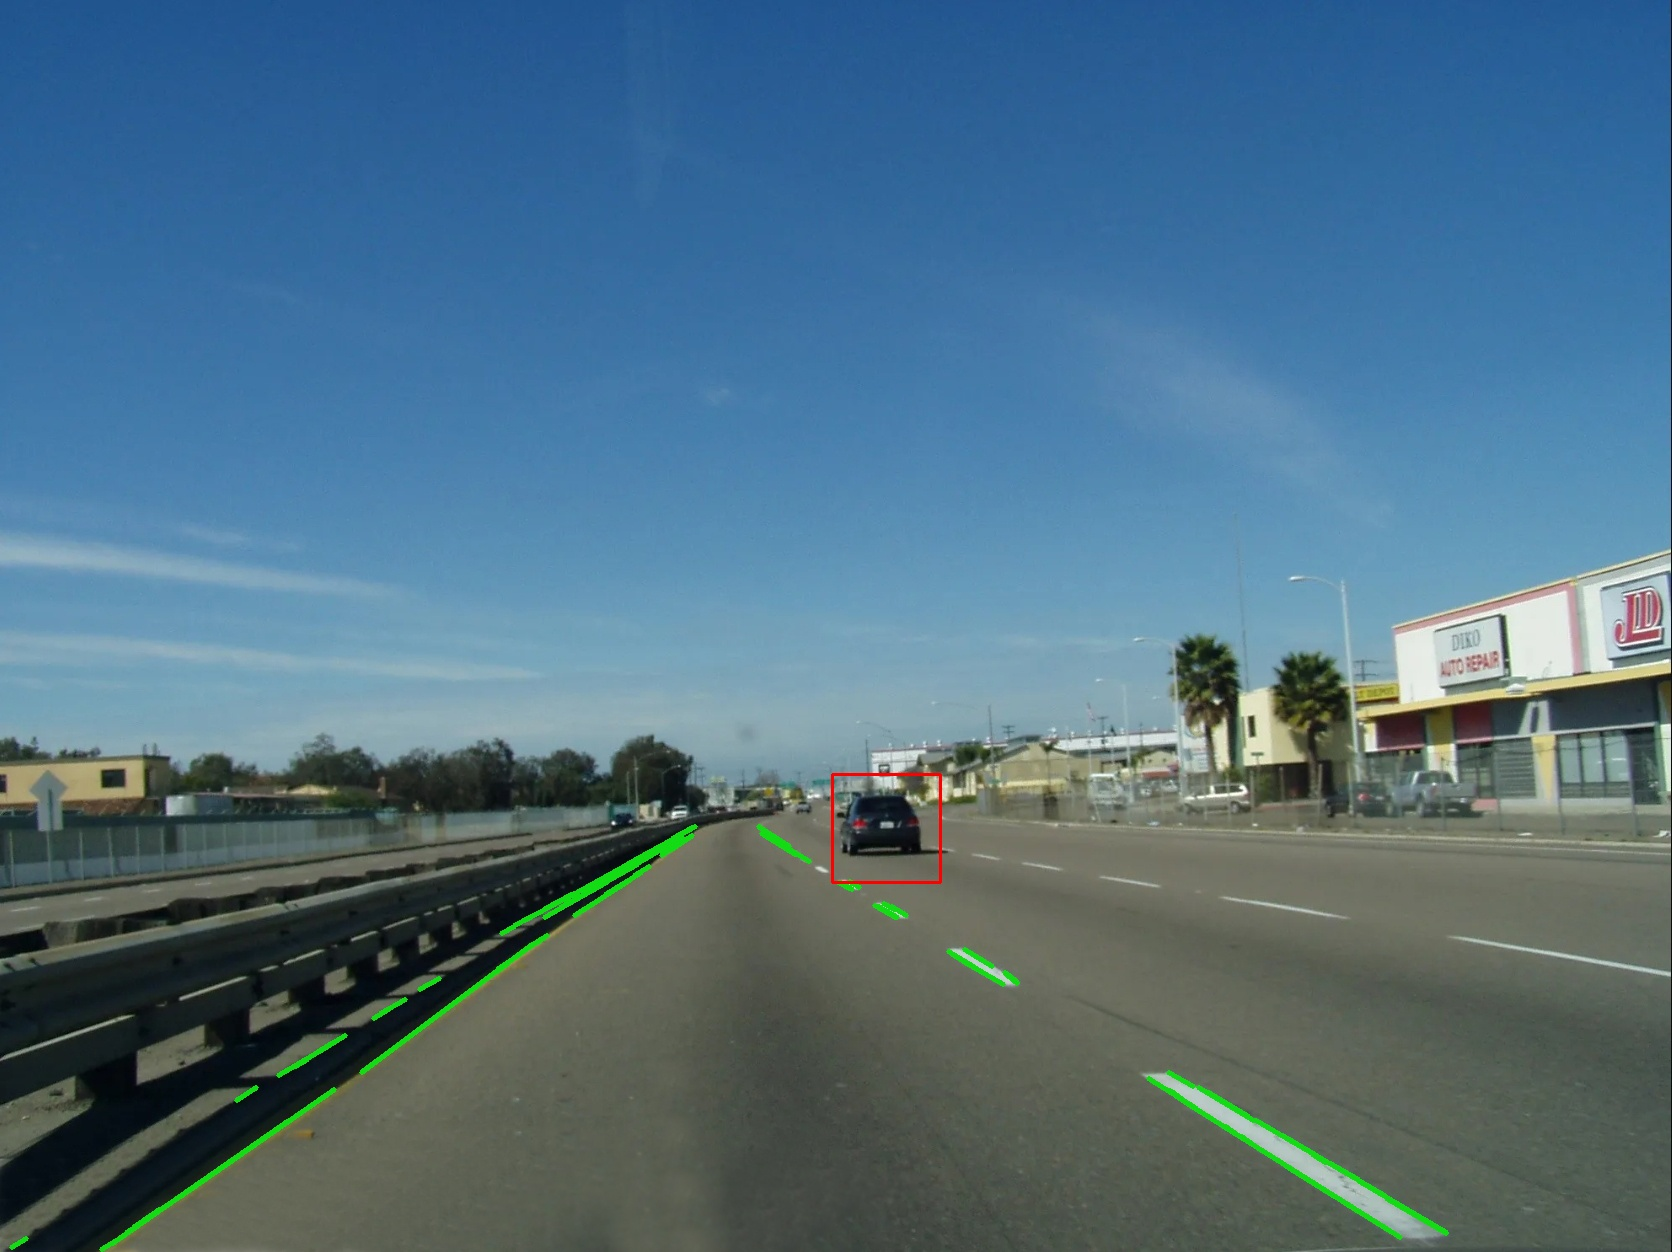
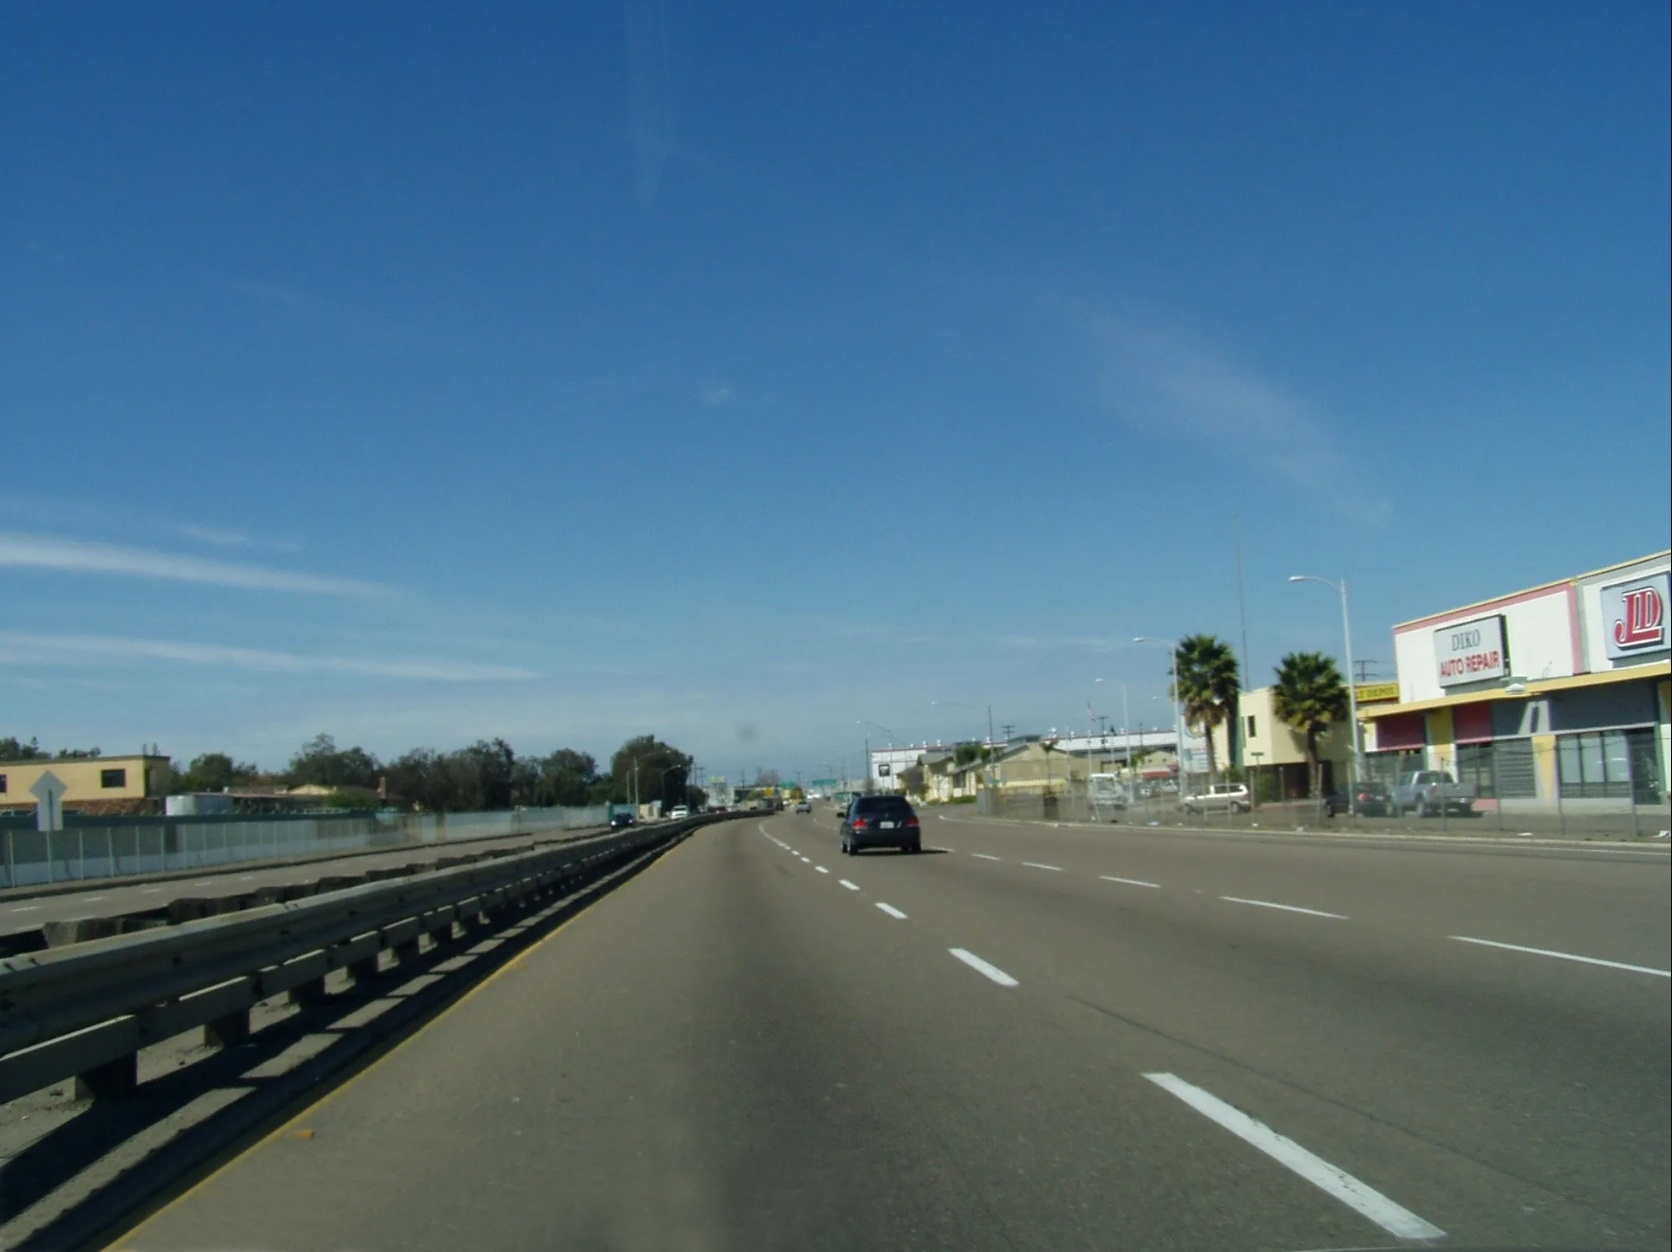
Add files via upload
Added video support

diff --git a/videosupport.py b/videosupport.py
@@ -1,0 +1,91 @@
+import cv2
+import numpy as np
+
+
+#image filtering parameters
+guassian_window = 5
+max_slope = 0.50
+edge_low = 50
+edge_high = 150
+mask_height = 2.0
+
+#line detection parameters
+line_detection_rho = 10
+line_detection_theta = np.pi/180
+line_detection_threshold = 200
+line_detection_minLine = 25
+line_detection_maxGap = 5
+
+#car detection parameters
+car_minsize = 80
+
+# Load the video
+video = cv2.VideoCapture('video.mp4')
+fps = video.get(cv2.CAP_PROP_FPS)
+frame_width = int(video.get(cv2.CAP_PROP_FRAME_WIDTH))
+frame_height = int(video.get(cv2.CAP_PROP_FRAME_HEIGHT))
+
+out = cv2.VideoWriter('output.mp4', cv2.VideoWriter_fourcc(*'mp4v'), fps, (frame_width, frame_height), isColor=True)
+video.set(cv2.CAP_PROP_POS_MSEC, 60000)
+
+
+# Frame index
+frame_index = 0
+counter = 0
+while True:
+    print("Frame: ", counter)
+    # Read the video frame by frame
+    ret, frame = video.read()
+
+    if not ret:
+        break
+
+    roadImage_grayscale = cv2.cvtColor(frame, cv2.COLOR_BGR2GRAY)  # transform to GC
+    roadImage_blur = cv2.GaussianBlur(roadImage_grayscale, (guassian_window, guassian_window), 0)  # 5-pixel window blur to GC_blur
+    roadImage_edges = cv2.Canny(roadImage_blur, edge_low, edge_high)  # use Canny to get edges
+
+    height, width = frame.shape[:2]
+
+    offset = width/12
+    top_left = (width / 2 - offset, height / mask_height)
+    top_right = (width / 2 + offset, height / mask_height)
+    mid_left = (width/8, height - width/8)
+    mid_right = (width - width/8, height - width/8)
+    bottom_left = (width/8, height)
+    bottom_right = (width - width/8, height)
+    vertices = np.array([[bottom_left, mid_left, top_left, top_right, mid_right, bottom_right]], dtype=np.int32)
+
+    mask = np.zeros_like(roadImage_edges)
+    cv2.fillPoly(mask, vertices, 255)
+    roadImage_edges_masked = cv2.bitwise_and(roadImage_edges, mask)  # get masked version of image
+
+    #   LINE DETECTION ----------------
+    lines = cv2.HoughLinesP(roadImage_edges_masked, line_detection_rho, line_detection_theta, line_detection_threshold, None, line_detection_minLine, line_detection_maxGap)  # detect lines
+
+    try:
+        for line in lines:
+            for x1, y1, x2, y2 in line:
+                if abs((y2 - y1) / (x2 - x1)) > max_slope:  # remove line if slope is near horizontal
+                    cv2.line(frame, (x1, y1), (x2, y2), (20, 220, 20), 3)  # draw line on original image
+    except:
+        f = None
+
+    #   CAR DETECTION ----------------
+    car_cascade = cv2.CascadeClassifier('cars.xml')  # import 'car' data
+    # find things that look like cars
+    cars = car_cascade.detectMultiScale(frame, scaleFactor=1.1, minNeighbors=5,
+                                        minSize=(car_minsize, car_minsize))
+    for x, y, width, height in cars:
+        cv2.rectangle(frame, (x + 10, y + 10), (x + width - 10, y + height - 10), (0, 0, 255),
+                      2)  # draw rectangle around 'car'
+
+    out.write(frame)
+    counter = counter+1
+
+# Release the video object
+video.release()
+out.release()
+
+
+# Close all OpenCV windows
+cv2.destroyAllWindows()

diff --git a/FrameOnly.py b/FrameOnly.py
@@ -1,0 +1,63 @@
+import cv2
+import numpy as np
+
+#image filtering parameters
+guassian_window = 5
+max_slope = 0.50
+edge_low = 50
+edge_high = 150
+mask_height = 1.5
+
+#line detection parameters
+line_detection_rho = 15
+line_detection_theta = np.pi/180
+line_detection_threshold = 200
+line_detection_minLine = 10
+line_detection_maxGap = 5
+
+#car detection parameters
+car_minsize = 80
+
+#   IMAGE FILTERING ----------------
+roadImage_original = cv2.imread('road.jpg') #read image
+roadImage_grayscale = cv2.cvtColor(roadImage_original, cv2.COLOR_BGR2GRAY) #transform to GC
+roadImage_blur = cv2.GaussianBlur(roadImage_grayscale, (guassian_window, guassian_window), 0) #5-pixel window blur to GC_blur
+roadImage_edges = cv2.Canny(roadImage_blur, edge_low, edge_high) #use Canny to get edges
+
+height, width = roadImage_original.shape[:2]
+vertices = np.array([[(0,height), (width/2,height/mask_height), (width,height)]], dtype=np.int32)
+mask = np.zeros_like(roadImage_edges)
+cv2.fillPoly(mask, vertices, 255)
+roadImage_edges_masked = cv2.bitwise_and(roadImage_edges, mask) #get masked version of image
+
+cv2.imshow('roadImage original', roadImage_original)
+cv2.waitKey(0)
+cv2.imshow('roadImage edges', roadImage_edges)
+cv2.imwrite('edges_image.jpg', roadImage_edges)
+cv2.waitKey(0)
+cv2.imshow('roadImage edges masked', roadImage_edges_masked)
+cv2.imwrite('edges_image_masked.jpg', roadImage_edges_masked)
+cv2.waitKey(0)
+
+#   LINE DETECTION ----------------
+lines = cv2.HoughLinesP(roadImage_edges_masked, line_detection_rho, line_detection_theta, line_detection_threshold, None, line_detection_minLine, line_detection_maxGap) #detect lines
+print("AMOUNT OF LINES DETECTED: " + str(len(lines)))
+for line in lines:
+    for x1,y1,x2,y2 in line:
+        if abs((y2-y1)/(x2-x1)) > max_slope: # remove line if slope is near horizontal
+            cv2.line(roadImage_edges_masked, (x1,y1), (x2,y2), (20, 220, 20), 3) #draw line on original image
+
+
+#   CAR DETECTION ----------------
+car_cascade = cv2.CascadeClassifier('cars.xml') #import 'car' data
+#find things that look like cars
+cars = car_cascade.detectMultiScale(roadImage_original, scaleFactor=1.1, minNeighbors=5, minSize=(car_minsize, car_minsize))
+print("AMOUNT OF CARS DETECTED: " + str(len(cars)))
+for x,y,width,height in cars:
+    cv2.rectangle(roadImage_edges_masked, (x+10, y+10), (x+width-10, y+height-10), (0, 0, 255), 2) #draw rectangle around 'car'
+
+#   RESULTS ----------------
+cv2.imwrite('resulting_image.jpg', roadImage_original)
+cv2.imshow('Detected Image Overlay', roadImage_original)
+cv2.waitKey(0)
+cv2.destroyAllWindows()

diff --git a/test.py b/test.py
@@ -1,0 +1,24 @@
+import cv2
+import numpy as np
+
+# Load the image
+img = cv2.imread('road.jpg')
+
+# Define source points
+src_pts = np.float32([[0, 0], [img.shape[1]-1, 0], [0, img.shape[0]-1], [img.shape[1]-1, img.shape[0]-1]])
+
+# Define destination points
+dst_pts = np.float32([[50, 50], [img.shape[1]-51, 50], [50, img.shape[0]-51], [img.shape[1]-51, img.shape[0]-51]])
+
+# Compute the perspective transform matrix
+M = cv2.getPerspectiveTransform(src_pts, dst_pts)
+
+# Apply the perspective transformation
+img_transformed = cv2.warpPerspective(img, M, (img.shape[1], img.shape[0]))
+
+# Display the images
+cv2.imshow('Original', img)
+cv2.imshow('Transformed', img_transformed)
+
+cv2.waitKey(0)
+cv2.destroyAllWindows()
